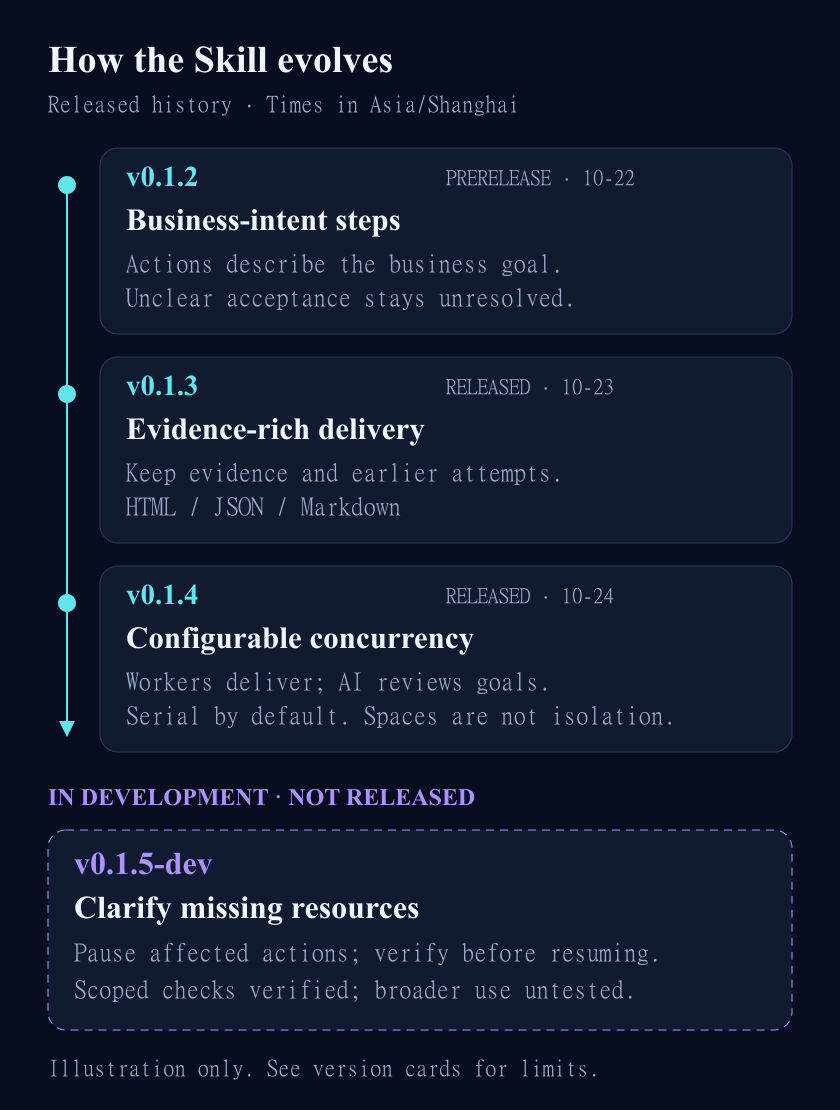
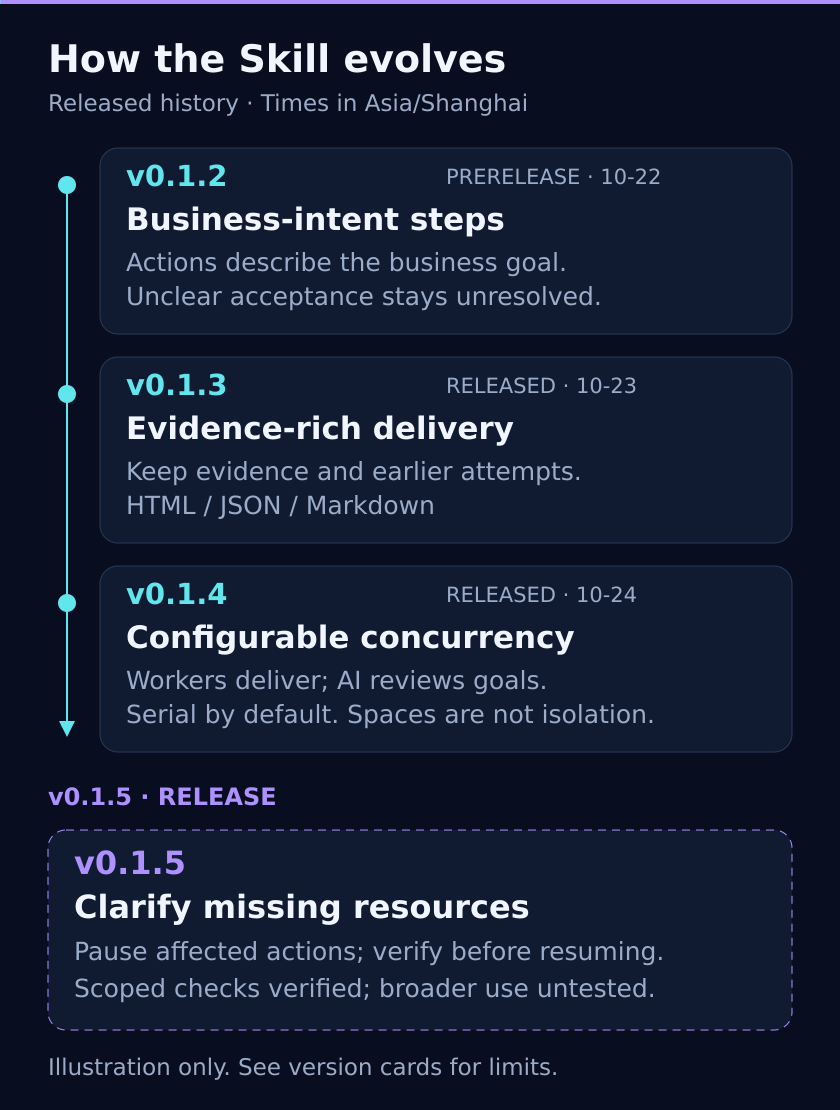
release(v0.1.5): finalize stable Skill identity and release documentation

diff --git a/README.en.md b/README.en.md
@@ -16,18 +16,18 @@ The repository/package/Skill identifier is **ai-autonomous-testing-ego-lite**. C
 
 ## Project status
 
-This Skill is under active development. Current source is **v0.1.5-dev, with scoped behavioral acceptance completed and no formal release yet**; the latest formal release is [v0.1.4](https://github.com/99Like-wjj/ai-autonomous-testing-ego-lite/releases/tag/v0.1.4). Feedback is welcome. Review AI conclusions against business rules and evidence, and do not use them as the sole basis for launch decisions. See [version history](docs/version-history.en.md), the [validation record](docs/testing.en.md) and [changelog](CHANGELOG.md).
+This Skill is under active development. Current version is **v0.1.5, with scoped behavioral acceptance completed**; the formal package and checksums are in [v0.1.5 Release](https://github.com/99Like-wjj/ai-autonomous-testing-ego-lite/releases/tag/v0.1.5). Feedback is welcome. Review AI conclusions against business rules and evidence, and do not use them as the sole basis for launch decisions. See [version history](docs/version-history.en.md), the [validation record](docs/testing.en.md) and [changelog](CHANGELOG.md).
 
 Maintained source uses strict TypeScript; installation packages contain compiled JavaScript and require no TypeScript compiler or development dependencies. Case concurrency is configurable and defaults to serial execution. The AI decides which cases are independent and uses native host subagents. Space association and deviation records are not a hard permission sandbox or a guarantee of account or backend-data isolation.
 
 
-## 0.1.5 development: clarify missing resources
+## 0.1.5: clarify missing resources
 
 The AI infers prerequisites from each goal, checks existing material and safely available facts within authorization, and asks about material gaps. It explains affected goals and how to supply what is missing, pauses dependent actions, and may continue independent authorized work. Supplied resources require verification before resuming, including new dependencies discovered during execution.
 
 Acceptance ambiguity, resource availability and permission to act stay separate. Existing tools retain observations, questions and history; no fixed resource checklist or business workflow is added. See the [resource guide (Chinese)](skills/ai-autonomous-testing-ego-lite/references/resource-readiness.md) and [local acceptance steps (Chinese)](docs/v0.1.5-local-acceptance.md). Guidance and engineering checks do not replace behavioral acceptance.
 
-![Version history separates released capabilities from v0.1.5 development; illustration only.](docs/images/version-history.png)
+![Version history presents released capabilities and v0.1.5 updates; illustration only.](docs/images/version-history.png)
 
 ## Parallel execution and delivery (since v0.1.4)
 
@@ -37,13 +37,13 @@ Unless the user explicitly requests another format, completed test execution del
 
 Build a complete standalone directory from the source repository with `npm run build:skill -- --output-dir ABS_NEW_EXTERNAL_SKILL_DIR`. The package contains the Skill, guides, scripts, schemas, synthetic examples and `runtime-manifest.json`. Copying only the source Skill instructions is incomplete. Before updating an existing installation, compare known source files and report unknown edits instead of overwriting them, creating duplicate installations or adding old-version backups.
 
-Use the absolute root of the actually loaded SKILL.md, then run `node ABS_TOOL_ROOT/scripts/ego.mjs tool-info --expect-version 0.1.5-dev --expect-revision branding-rename-1`. Check paths, formatVersions and installationIntegrity. Every CLI command verifies installed files. Source development runs npm ci and npm run build from the confirmed repository, then uses its explicit .build/runtime tool root. Fingerprints check consistency, not publisher identity. Validate this development package separately before deciding whether to replace an existing installation; no new resource JSON format is introduced.
+Use the absolute root of the actually loaded SKILL.md, then run `node ABS_TOOL_ROOT/scripts/ego.mjs tool-info --expect-version 0.1.5 --expect-revision branding-rename-1`. Check paths, formatVersions and installationIntegrity. Every CLI command verifies installed files. Source development runs npm ci and npm run build from the confirmed repository, then uses its explicit .build/runtime tool root. Fingerprints check consistency, not publisher identity. Validate this complete package separately before deciding whether to replace an existing installation; no new resource JSON format is introduced.
 
 `report` reads back all three outputs. `verify-report --run-dir ABS_RUN --report-dir ABS_REPORT_DIR` compares the files with current records, retained evidence and context sources. Receipts include paths, sizes, hashes and `browserOpen: not_checked`; actual browser opening is separate. Report access restrictions honestly without routing around them.
 
 To retain an existing report, prepare a new external directory and pass `report --output-dir ABS_EXISTING_NEW_DIR`. Post-execution assembly also passes `--context ABS_CONTEXT_JSON`, defined by [the context schema](schemas/report-context.schema.json). It records limitations, existing source files and hashes, supplemental case IDs and AI-supplied reviews for every goal. Original claims remain separate; no pre-execution freeze, screenshot, timestamp or execution step is invented. No business actions run to fill a report.
 
-This development version uses tool revision `branding-rename-1`. Cases/results/evidence remain v3; new manifests/reports are v4, execution/configuration/worker packets v1. Existing v3 runs remain usable without in-place migration; v2 remains unsupported. The installation requires Node.js >=22, not a TS compiler.
+This version uses tool revision `branding-rename-1`. Cases/results/evidence remain v3; new manifests/reports are v4, execution/configuration/worker packets v1. Existing v3 runs remain usable without in-place migration; v2 remains unsupported. The installation requires Node.js >=22, not a TS compiler.
 
 ## Cases and judgments
 

diff --git a/README.md b/README.md
@@ -16,18 +16,18 @@
 
 ## 项目现状
 
-本 Skill 仍在持续开发和完善中。当前源码为 **v0.1.5-dev 开发版，限定场景专项验收已完成，尚未正式发布**，最新正式发布为 [v0.1.4](https://github.com/99Like-wjj/ai-autonomous-testing-ego-lite/releases/tag/v0.1.4)。欢迎试用并反馈。AI 的测试结论仍需结合业务规则和证据复核，不应作为上线决策的唯一依据。详见[版本演变](docs/version-history.md)、[验证记录](docs/testing.md)与[更新说明](CHANGELOG.md)。
+本 Skill 仍在持续开发和完善中。当前版本为 **v0.1.5，限定场景专项验收已完成**，正式安装包与校验值见 [v0.1.5 Release](https://github.com/99Like-wjj/ai-autonomous-testing-ego-lite/releases/tag/v0.1.5)。欢迎试用并反馈。AI 的测试结论仍需结合业务规则和证据复核，不应作为上线决策的唯一依据。详见[版本演变](docs/version-history.md)、[验证记录](docs/testing.md)与[更新说明](CHANGELOG.md)。
 
 维护源码使用严格 TypeScript，安装包提供编译后的 JavaScript，无需安装 TypeScript 或开发依赖。支持用户配置用例并发，默认串行；AI 自主判断用例独立性并调用宿主原生子代理。Space 关联与偏差记录不是强权限沙箱，也不保证账号或后端数据隔离。
 
 
-## 0.1.5 开发版：资源不足时主动澄清
+## 0.1.5：资源不足时主动澄清
 
 AI 按测试目标推导所需身份、权限、环境、数据和观察条件，先查已有资料及授权内事实。仍有实质缺口时，说明缺什么、影响哪些目标和怎样补充；暂停依赖动作，独立且获授权的目标可以继续。用户补充后核实再恢复，执行中发现新依赖同样适用。
 
 验收规则不明确、资源不足、操作授权分别处理，复用现有记录和报告工具；不要求统一资源表或固定业务路线。参阅[资源指南](skills/ai-autonomous-testing-ego-lite/references/resource-readiness.md)和[本地验收步骤](docs/v0.1.5-local-acceptance.md)。指南和工程检查不能替代实际使用验收。
 
-![版本演变总览：已发布历史与 v0.1.5 开发版分开显示，图为能力示意。](docs/images/version-history.zh-CN.png)
+![版本演变总览：展示各版本能力与 v0.1.5 更新，图为能力示意。](docs/images/version-history.zh-CN.png)
 
 ## 并发与交付（自 v0.1.4）
 
@@ -42,7 +42,7 @@ $InstallPackage = Join-Path $env:TEMP ('ai-autonomous-testing-ego-lite-' + [guid
 npm ci
 npm run typecheck
 npm run build:skill -- --output-dir $InstallPackage
-node (Join-Path $InstallPackage 'scripts/ego.mjs') tool-info --expect-version 0.1.5-dev --expect-revision branding-rename-1
+node (Join-Path $InstallPackage 'scripts/ego.mjs') tool-info --expect-version 0.1.5 --expect-revision branding-rename-1
 ```
 
 经授权并按更名升级说明迁移到 Skill 根下的 `ai-autonomous-testing-ego-lite` 目录；不要继续装入旧名目录。更新前核对旧文件是否来自已知版本，出现不明修改先报告，不能覆盖用户文件、创建同名重复安装或自动增加旧版备份。运行时以**实际加载的 SKILL.md 所在目录**为工具根；源码开发先在已确认根目录构建，使用明确的 `.build/runtime` 工具根。`tool-info` 输出版本、revision、formatVersions、实际路径和编译产物指纹；安装清单缺失、文件修改或版本混用会拒绝执行。指纹不认证发布者，构建清单只包含指定分发资源，不打包真实运行目录。
@@ -51,7 +51,7 @@ node (Join-Path $InstallPackage 'scripts/ego.mjs') tool-info --expect-version 0.
 
 已有报告不得覆盖。准备一个新的仓库外目录，使用 `report --run-dir ABS_RUN --output-dir ABS_EXISTING_NEW_DIR` 另存；事后补报告再传 `--context ABS_CONTEXT_JSON`，格式见 [报告整理上下文](schemas/report-context.schema.json)。它明确整理性质、限制、现有来源与 hash、补充用例及 AI 逐目标复核，原记录结论保留单独展示，不冒充执行前冻结。工具不补造截图、采集时间、步骤或业务结论，也不为了补报告重跑业务。
 
-本开发版工具 revision 为 `branding-rename-1`。用例、结果与证据保留 v3；新 manifest/report 为 v4，执行台账、配置和交付包为 v1，executionRead 为 v2；没有新增资源 JSON 契约。既有 v3 run 可继续使用，不原地升级或删除；v2 仍不支持。安装包不需要 TypeScript 编译器。单例单 Space 是默认原则，偏差保留并由 AI 复核，必须保护用户原有 Space；这些规则和记录不构成宿主级强隔离保证。独立验收包先按本地验收说明使用，是否更新当前安装由用户决定。
+本版工具 revision 为 `branding-rename-1`。用例、结果与证据保留 v3；新 manifest/report 为 v4，执行台账、配置和交付包为 v1，executionRead 为 v2；没有新增资源 JSON 契约。既有 v3 run 可继续使用，不原地升级或删除；v2 仍不支持。安装包不需要 TypeScript 编译器。单例单 Space 是默认原则，偏差保留并由 AI 复核，必须保护用户原有 Space；这些规则和记录不构成宿主级强隔离保证。独立验收包先按本地验收说明使用，是否更新当前安装由用户决定。
 
 ## 用例与判断
 

diff --git a/CHANGELOG.md b/CHANGELOG.md
@@ -1,7 +1,8 @@
 # 更新记录 / Changelog
 
-## 0.1.5-dev — 2026-10-25 · 开发中，限定场景专项验收完成
+## 0.1.5 — 2026-10-25 · 资源主动澄清与完整更名
 
+- 正式收尾：package、工具常量、Skill 元数据、调用校验与完整安装包统一为 0.1.5，不带 dev 后缀；Codex 展示/调用配置随包分发。历史开发验证记录保留原版本，版本收尾不扩大其验收范围。
 - 更名修订 branding-rename-1：仓库、package 与 Skill 标识统一为 ai-autonomous-testing-ego-lite，新增随完整包校验的 Codex 展示/调用元数据，更新当前链接与迁移说明。README 中文标题“基于 Ego Lite 的 AI 自主测试 Skill”不变；历史版本、报告与数据格式不动，用户安装不自动修改。
 - 修订 resource-clarification-3：同一资源事实复用可追溯依据，派生摘要回读该来源并区分历史与当前；已提供但未核验不再写成未提供。复用现有证据、结果和报告，不增加资源状态机或业务判断代码。
 - 修订 resource-clarification-2：明确记录缺口不等于实际发问、部分答复只解决所覆盖条件，以及受阻原目标交付前的问答核对。资源指南优先讲行为，字段映射后置；保持 AI 自主判断。
@@ -9,10 +10,10 @@
 - 分开处理验收歧义、资源可用性和操作授权。clarificationQuestions 既有含义与 pass/fail 限制保留；资源恢复符合原条件时不因此重新冻结，改变冻结语义仍须修订并保留历史。
 - 复用现有结果、证据、worker 包和报告；不新增资源 JSON、固定决策树、自动重试或独立模型服务。新增指南明确加入运行包与安装清单，辅助资源笔记不冒称已被 verify-report 校验。
 - 新增面向使用者的双语版本演变页、总览图、README 入口及本地验收步骤；区分正式/预发布/开发中和实际发布时间，历史开发记录保留。
-- 升级影响：软件 0.1.5-dev，toolRevision 为 branding-rename-1（资源澄清行为沿用 resource-clarification-3）；cases/results/evidence v3、manifest/report v4、execution/configuration/workerPacket v1、executionRead v2 保持。需完整包以包含新指南；不迁移、删除或覆盖历史。
-- 本版工程验证与限制见 [v0.1.5 本地验证记录](docs/v0.1.5-validation.md)。真实对话与业务验收分别记录，不由类型或合成测试代替。旧开发包已按用户授权更新至用户级安装；本次候选安装及逐次验证以回执为准，未合并 main 或发布。
+- 升级影响：软件 0.1.5，toolRevision 为 branding-rename-1（资源澄清行为沿用 resource-clarification-3）；cases/results/evidence v3、manifest/report v4、execution/configuration/workerPacket v1、executionRead v2 保持。需完整包以包含新指南；不迁移、删除或覆盖历史。
+- 本版工程验证与限制见 [v0.1.5 本地验证记录](docs/v0.1.5-validation.md)。真实对话与业务验收分别记录，不由类型或合成测试代替。旧开发包已按用户授权更新至用户级安装；历史候选安装及逐次验证以回执为准；它们不代表用户电脑已更新到本次正式安装包。
 
-English: Goal-specific resource clarification, dependency-scoped pauses and verified resumption are guided by the AI using existing records and report tools. Added bilingual version history and acceptance instructions. Development build, unchanged JSON contracts; scoped behavioral acceptance is recorded; broader reliability remains unverified.
+English: Goal-specific resource clarification, dependency-scoped pauses and verified resumption are guided by the AI using existing records and report tools. Added bilingual version history and acceptance instructions. Formal version 0.1.5 with unchanged JSON contracts; scoped behavioral acceptance is recorded; broader reliability remains unverified.
 
 ## 0.1.4 — 2026-10-24 · TypeScript 与可配置并发
 

diff --git a/docs/rename-upgrade.md b/docs/rename-upgrade.md
@@ -1,6 +1,6 @@
 # v0.1.5 名称变更与升级 / Naming and upgrade
 
-此变更属于 **0.1.5-dev / branding-rename-1**，不代表正式发布或新增业务验收。资源澄清能力沿用 resource-clarification-3；数据格式、Ego 命令/API 与官方 ego-browser Skill 不变。
+此变更属于 **0.1.5 / branding-rename-1**，正式包中的软件与 Skill 版本统一为 0.1.5；版本号收尾不增加业务验收范围。资源澄清能力沿用 resource-clarification-3；数据格式、Ego 命令/API 与官方 ego-browser Skill 不变。
 
 ## 名称对应
 
@@ -29,7 +29,7 @@ git status --short --branch
 ## 安装与发现
 
 1. 从当前源码构建完整的仓库外目录包，目录名使用 ai-autonomous-testing-ego-lite。不能只复制源码 Skill 说明子目录。包必须包含 agents/openai.yaml、references、scripts、schemas、运行依赖资源与 runtime-manifest.json。
-2. 在独立包运行 `node ABS_PACKAGE/scripts/ego.mjs tool-info --expect-version 0.1.5-dev --expect-revision branding-rename-1`，确认 name 为 ai-autonomous-testing-ego-lite、installationIntegrity 为 verified，并检查实际路径。
+2. 在独立包运行 `node ABS_PACKAGE/scripts/ego.mjs tool-info --expect-version 0.1.5 --expect-revision branding-rename-1`，确认 name 为 ai-autonomous-testing-ego-lite、installationIntegrity 为 verified，并检查实际路径。
 3. 更新用户安装须单独获得授权。先检查实际使用的 Skill 搜索路径（包括项目级和用户级）以及旧 ego-lite-test 与新目录是否存在，比较已知文件哈希，保护不明修改、报告和证据。新目录已存在时先比对，不直接覆盖。
 4. 迁移已确认的旧安装到同一 Skill 根下的新目录，并更新为完整新包；校验新入口后再完成旧入口退役。不要长期留下两个可被发现的同功能入口，不自动创建旧版备份或删除不明内容。无法安全完成时保留现状并报告，不静默加载旧版。
 5. 在新的 Codex 会话检查展示名及 `$ai-autonomous-testing-ego-lite`，再从实际加载的 SKILL.md 目录运行 tool-info。旧调用名不作为兼容别名保留；官方 `$ego-browser` 仍按既有方式使用。
@@ -38,4 +38,4 @@ git status --short --branch
 
 ## English summary
 
-The repository, package and Skill identifier are now **ai-autonomous-testing-ego-lite**. Invoke `$ai-autonomous-testing-ego-lite`; Codex displays **AI 自主自动化测试 · Ego Lite**. The Chinese README heading stays unchanged. Update the remote in the existing checkout; do not clone a second local version or reset local work. Build and verify the full standalone package, including agents/openai.yaml. User-level installation migration requires separate authorization and checks for unknown changes and duplicate discoverable entries. Historical releases, reports, hashes, JSON formats and the official Ego API/Skill remain unchanged. This development rename is not a release or a new live-business acceptance result.
+The repository, package and Skill identifier are now **ai-autonomous-testing-ego-lite**. Invoke `$ai-autonomous-testing-ego-lite`; Codex displays **AI 自主自动化测试 · Ego Lite**. The Chinese README heading stays unchanged. Update the remote in the existing checkout; do not clone a second local version or reset local work. Build and verify the full standalone package, including agents/openai.yaml. User-level installation migration requires separate authorization and checks for unknown changes and duplicate discoverable entries. Historical releases, reports, hashes, JSON formats and the official Ego API/Skill remain unchanged. The formal package reports version 0.1.5, without a dev suffix; the naming and version update does not add live-business acceptance evidence.

diff --git a/docs/version-history.en.md b/docs/version-history.en.md
@@ -4,19 +4,19 @@
 
 The AI interprets goals and judges business outcomes, Ego operates the browser, and local tools retain evidence and deliver reports.
 
-![Evolution: v0.1.2 business steps and acceptance questions; v0.1.3 evidence-rich delivery; v0.1.4 configurable concurrency; v0.1.5 development guidance for resource clarification. Illustration, not execution evidence.](images/version-history.png)
+![Evolution: v0.1.2 business steps and acceptance questions; v0.1.3 evidence-rich delivery; v0.1.4 configurable concurrency; v0.1.5 guidance for resource clarification. Illustration, not execution evidence.](images/version-history.png)
 
-## In development: v0.1.5-dev
+## v0.1.5 · Resource clarification
 
-**Not formally released; scoped behavioral acceptance has been completed.** The source adds resource-readiness guidance, discoverable from the Skill entrypoint. The AI infers prerequisites from each goal, checks available facts within authorization, asks about material gaps, pauses dependent actions and may continue independent authorized work. Supplied resources require verification before resuming; new dependencies can emerge during execution.
+**Formal version: 2026-10-25.** [Release, package and checksums](https://github.com/99Like-wjj/ai-autonomous-testing-ego-lite/releases/tag/v0.1.5). Scoped behavioral acceptance has been completed. The source adds resource-readiness guidance, discoverable from the Skill entrypoint. The AI infers prerequisites from each goal, checks available facts within authorization, asks about material gaps, pauses dependent actions and may continue independent authorized work. Supplied resources require verification before resuming; new dependencies can emerge during execution.
 
 Acceptance ambiguity, resource availability and permission to act remain separate. Existing evidence, result and worker-packet tools are reused; no new resource JSON contract or fixed business workflow is introduced. Cases/results/evidence v3 and manifest/report v4 remain unchanged. This page and bilingual overview images explain the history.
 
-The AI still judges sufficiency, questions and recovery. Auxiliary notes are not automatically covered by report verification. Engineering checks do not prove reliable behavior in real projects. Use a complete Node.js 22+ package for separate acceptance; installation replacement, merging and publishing require their respective authorization.
+The AI still judges sufficiency, questions and recovery. Auxiliary notes are not automatically covered by report verification. Engineering checks do not prove reliable behavior in real projects. The complete Node.js 22+ package and Codex Skill metadata report 0.1.5 without a dev suffix. Repository/Skill identifiers are ai-autonomous-testing-ego-lite; see the [rename guide](rename-upgrade.md) before an authorized installation migration. Formal release does not imply every scenario is verified.
 
 ## Released versions
 
-Times below are GitHub published_at converted to Asia/Shanghai. Development dates in the historical changelog retain their original meaning.
+Earlier release times below are GitHub published_at converted to Asia/Shanghai; use the v0.1.5 Release for its exact publication time. Development dates in the historical changelog retain their original meaning.
 
 ### v0.1.4 · Configurable concurrency
 

diff --git a/docs/version-history.md b/docs/version-history.md
@@ -4,11 +4,11 @@
 
 基于 Ego Lite 的 AI 自主测试 Skill：AI 理解目标、选择方法并判断业务，Ego 操作浏览器，本地工具保存证据和交付报告。
 
-![版本演变：v0.1.2 业务步骤与验收澄清；v0.1.3 图文证据交付；v0.1.4 可配置并发；v0.1.5 开发版补强资源主动澄清。图为能力示意，非测试截图。](images/version-history.zh-CN.png)
+![版本演变：v0.1.2 业务步骤与验收澄清；v0.1.3 图文证据交付；v0.1.4 可配置并发；v0.1.5 补强资源主动澄清。图为能力示意，非测试截图。](images/version-history.zh-CN.png)
 
-## 开发中：v0.1.5-dev · 资源不足时主动澄清
+## v0.1.5 · 资源不足时主动澄清
 
-**尚未正式发布，已完成限定场景专项验收。** 当前源码包含以下规范与文档；专项结果不代表所有模型和业务场景均已验证。
+**正式版本：2026-10-25。** [Release、安装包与校验值](https://github.com/99Like-wjj/ai-autonomous-testing-ego-lite/releases/tag/v0.1.5)。已完成限定场景专项验收。 当前源码包含以下规范与文档；专项结果不代表所有模型和业务场景均已验证。
 
 - **解决的问题：** 测试目标需要的身份、权限、项目、数据或观察条件不足时，AI 可能继续执行，却没有主动说明缺口。
 - **变化：** Skill 入口明确加载资源指南，按目标判断前提，先在授权内核验；无法自行确认的实质缺口主动询问，只暂停依赖动作。用户补充后核实，再决定恢复；执行中有新依赖也适用。
@@ -17,11 +17,11 @@
 - **本版同时新增：** 本演变页、README 入口和双语版本总览图。
 - **限制：** 是否资源充分、提问内容及恢复仍由 AI 判断；辅助笔记不自动受报告校验。工程回归不能替代真实使用验收。
 
-需要 Node.js 22+，更新时使用完整包并核对实际加载版本。本开发包先独立验收，不覆盖不明安装修改或历史资产；正式安装、合并和发布分别遵从用户授权。
+需要 Node.js 22+，更新时使用完整包并核对实际加载版本。完整安装包版本与 Codex Skill 元数据统一为 0.1.5，不带 dev；仓库和 Skill 更名为 ai-autonomous-testing-ego-lite。升级先核对不明安装修改与历史资产，参阅[更名与升级说明](rename-upgrade.md)。正式版本不等于所有场景已验证。
 
 ## 已发布
 
-发布时间均来自各 Release 的 published_at，以下统一为北京时间。CHANGELOG 内开发/归档日期保持其原含义。
+以下较早版本的发布时间来自各 Release 的 published_at，统一为北京时间；v0.1.5 的精确发布时间以 Release 为准。CHANGELOG 内开发/归档日期保持其原含义。
 
 ### v0.1.4 · 可配置并发与协调复核
 

diff --git a/docs/asset-formats.md b/docs/asset-formats.md
@@ -1,13 +1,13 @@
 # 本地资产格式与运行约定（v3 业务核心、v4 执行）
 
-## v0.1.5-dev 当前格式总览
+## v0.1.5 当前格式总览
 
-本开发版没有新增资源 JSON 契约。资源缺口复用 observed/rationale/remainingQuestions 和显式目标评估/证据，clarificationQuestions 继续只表示验收待澄清。pendingClarification 不统计全部资源缺口；辅助笔记未集成时不属于 verify-report 的核验输入。
+本版没有新增资源 JSON 契约。资源缺口复用 observed/rationale/remainingQuestions 和显式目标评估/证据，clarificationQuestions 继续只表示验收待澄清。pendingClarification 不统计全部资源缺口；辅助笔记未集成时不属于 verify-report 的核验输入。
 
 用例、结果、证据继续使用 v3；新运行 manifest 与报告使用 v4；执行台账、配置、worker 交付包使用 v1；查询视图使用 v2。既有 v3 运行保留原格式且可继续核验；下方 v0.1.3 段落是基础记录语义的历史背景，不表示新运行仍是 v3。并发字段与命令详见本文后部的 v0.1.4 章节。
 
 
-当前 `0.1.5-dev`（沿用 v0.1.4 契约）：cases/baseline/results/evidence 仍为 v3；新 manifest/report 为 v4；配置、执行台账、worker 交付包为 v1。`schemas/manifest.schema.json`、`report.schema.json` 显式区分 v3/v4。以下 v3 字段语义继续适用，不代表所有新运行仍为 v3。并行调用见工具根的 `references/parallel-testing.md`，源码位于 `skills/ai-autonomous-testing-ego-lite/references/parallel-testing.md`。
+当前 `0.1.5`（沿用 v0.1.4 契约）：cases/baseline/results/evidence 仍为 v3；新 manifest/report 为 v4；配置、执行台账、worker 交付包为 v1。`schemas/manifest.schema.json`、`report.schema.json` 显式区分 v3/v4。以下 v3 字段语义继续适用，不代表所有新运行仍为 v3。并行调用见工具根的 `references/parallel-testing.md`，源码位于 `skills/ai-autonomous-testing-ego-lite/references/parallel-testing.md`。
 
 `execution read` 默认返回 `schemas/execution-read.schema.json` 定义的摘要视图（`viewVersion:2`），支持单分派视图及显式 `--view full` 原完整输出；内部 `readExecutionView` 完整读取接口保持不变。摘要不写入 run，也不改变上述存档格式。摘要／单例默认只校验元数据，integrity 对象明示结果与证据未复核；加 `--integrity full` 可完整检查后仍返回紧凑内容，完整视图始终严格检查。轻量查询发现恢复标记只提示，不自动恢复。新报告使用“尚无结果／尝试记录”“已有尝试记录，尚无最终结论”，不从入账情况推断实际是否执行；下文 v0.1.3 展示说明保留其历史语义。
 

diff --git a/docs/asset-formats.en.md b/docs/asset-formats.en.md
@@ -1,13 +1,13 @@
 # Asset formats (v3 business data, v4 execution)
 
-## Current v0.1.5-dev format overview
+## Current v0.1.5 format overview
 
 No resource JSON contract is added. Existing observed/rationale/remainingQuestions and explicit goal assessments/evidence retain resource gaps. clarificationQuestions still means unresolved acceptance; pendingClarification does not count all resource gaps. Unintegrated auxiliary notes are outside verify-report inputs.
 
 Cases, results and evidence remain v3; new run manifests and reports use v4; execution ledgers, configuration and worker packets use v1; query views use v2. Existing v3 runs retain their format and remain verifiable. The v0.1.3 sections below explain historical base record semantics, not the format of new runs. See the v0.1.4 section later in this guide for parallel commands and fields.
 
 
-Current 0.1.5-dev keeps the v0.1.4 contracts and retains v3 cases/baseline/results/evidence, uses v4 for new manifests/reports and v1 for configuration/execution/worker packets. Root schemas dispatch v3/v4 explicitly. The v3 field semantics below remain valid. Parallel calls are documented with the installed Skill references.
+Current 0.1.5 keeps the v0.1.4 contracts and retains v3 cases/baseline/results/evidence, uses v4 for new manifests/reports and v1 for configuration/execution/worker packets. Root schemas dispatch v3/v4 explicitly. The v3 field semantics below remain valid. Parallel calls are documented with the installed Skill references.
 
 `execution read` now defaults to the viewVersion 2 response in execution-read.schema.json; use `--view assignment --assignment-id ID` for one assignment or `--view full` for the previous complete structure. The internal readExecutionView API remains complete. Views do not change stored run formats. Summary/assignment default to metadata validation, with explicit not_checked result/evidence fields and recovery-marker visibility. Use --integrity full for a strictly checked compact response; the full view always remains strict. Metadata queries do not recover transactions. New report wording distinguishes missing recorded observations from actual execution state; historical v0.1.3 descriptions below retain their context.
 

diff --git a/skills/ai-autonomous-testing-ego-lite/SKILL.md b/skills/ai-autonomous-testing-ego-lite/SKILL.md
@@ -2,7 +2,7 @@
 name: ai-autonomous-testing-ego-lite
 description: AI 自主 Web 自动化测试：由当前 AI 会话自主分析、规划与验证，通过已安装的 Ego Lite / Ego Browser 执行，接收外部用例或按需求生成带业务步骤的标准用例，执行证据驱动的黑盒 Web 测试，区分产品异常、执行失败和证据不足。适用于新需求/新功能自动化测试、已有用例核验、角色权限与业务流程测试；不是固定流程自动化器或 Agent 能力评测框架。
 metadata:
-  version: "0.1.5-dev"
+  version: "0.1.5"
   tool-revision: "branding-rename-1"
 ---
 
@@ -22,7 +22,7 @@ metadata:
 
 完整安装包包含入口、references、scripts、schemas 和格式指南。**除非用户明确指定其他格式，执行测试后的默认交付必须包含可独立打开的 HTML、结构化 JSON 和 Markdown。** 聊天摘要不能替代文件交付。工具暂不可用时仍可保存事实，但须明确报告交付阻塞，不能静默退回 Markdown 并宣称完成。
 
-开始记录前读 [本地工具箱调用指南](references/local-toolbox.md)：以本次实际加载的安装／构建包 `SKILL.md` 所在绝对目录为工具根，运行 `scripts/ego.mjs tool-info`，核对路径、`0.1.5-dev`、`branding-rename-1`、`formatVersions` 与安装文件校验结果。源码开发先在明确的唯一仓库构建，使用其 `.build/runtime` 或本次指定的独立编译包；不要将源码 Skill 子目录当作安装根，不向上猜目录、选择旧安装或覆盖用户安装。先确认报告资源可用；这不规定业务执行路线。
+开始记录前读 [本地工具箱调用指南](references/local-toolbox.md)：以本次实际加载的安装／构建包 `SKILL.md` 所在绝对目录为工具根，运行 `scripts/ego.mjs tool-info`，核对路径、`0.1.5`、`branding-rename-1`、`formatVersions` 与安装文件校验结果。源码开发先在明确的唯一仓库构建，使用其 `.build/runtime` 或本次指定的独立编译包；不要将源码 Skill 子目录当作安装根，不向上猜目录、选择旧安装或覆盖用户安装。先确认报告资源可用；这不规定业务执行路线。
 
 ## 两种用例来源
 

diff --git a/skills/ai-autonomous-testing-ego-lite/references/local-toolbox.en.md b/skills/ai-autonomous-testing-ego-lite/references/local-toolbox.en.md
@@ -1,4 +1,4 @@
-# Local toolbox calling guide (0.1.5-dev)
+# Local toolbox calling guide (0.1.5)
 
 In `0.1.4`, `execution read` defaults to a bounded summary. Use `--view assignment --assignment-id ID` for one assignment, or `--view full` for the previous complete structure. Summary/assignment default to metadata checks and explicitly mark historical evidence as not_checked. Add --integrity full for a strictly checked compact view; the full view always retains strict checks. A confirmed write receipt supplies the next expectedRevision; an intervening query is optional. Report labels describe recorded observations, separately from execution state and business outcomes. See [parallel-testing](parallel-testing.md).
 
@@ -8,7 +8,7 @@ The helper performs local data transactions and rendering. Unless the user expli
 
 Use the absolute directory containing the actually loaded `SKILL.md` as the installed tool root. A complete installation includes scripts, schemas, docs, examples, and `runtime-manifest.json`. For source development run npm ci and npm run build at the confirmed root, then use .build/runtime; never infer it by walking up from an installed Skill or choosing a similarly named preview directory.
 
-Run `node ABS_TOOL_ROOT/scripts/ego.mjs tool-info --expect-version 0.1.5-dev --expect-revision branding-rename-1`. Check toolRoot, skillFile, formatVersions and installationIntegrity: verified for both built runtimes and installations. Every CLI command also checks the installed manifest. Report unknown edits rather than overwriting them. Read `docs/asset-formats.en.md` and schemas inside that verified root. A fingerprint proves byte consistency, not publisher identity.
+Run `node ABS_TOOL_ROOT/scripts/ego.mjs tool-info --expect-version 0.1.5 --expect-revision branding-rename-1`. Check toolRoot, skillFile, formatVersions and installationIntegrity: verified for both built runtimes and installations. Every CLI command also checks the installed manifest. Report unknown edits rather than overwriting them. Read `docs/asset-formats.en.md` and schemas inside that verified root. A fingerprint proves byte consistency, not publisher identity.
 
 ## Boundaries
 

diff --git a/skills/ai-autonomous-testing-ego-lite/references/local-toolbox.md b/skills/ai-autonomous-testing-ego-lite/references/local-toolbox.md
@@ -1,4 +1,4 @@
-# 本地工具箱调用指南（v0.1.5-dev）
+# 本地工具箱调用指南（v0.1.5）
 
 `execution read` 默认只给摘要；单分派用 `--view assignment --assignment-id ID`，需要完整结构时显式 `--view full`。默认摘要／单例只检查元数据并明示历史证据未复核；`--integrity full` 可完整检查后仍返回摘要，完整视图始终严格检查，详见[并发指南](parallel-testing.md)。报告“尚无结果／尝试记录”只描述入账情况，不能由此断言用例未执行；执行状态和业务结论分别查看。
 
@@ -11,7 +11,7 @@
 ```powershell
 $ToolRoot = 'ABS_ACTUALLY_LOADED_SKILL_ROOT'
 $Tool = Join-Path $ToolRoot 'scripts/ego.mjs'
-node $Tool tool-info --expect-version 0.1.5-dev --expect-revision branding-rename-1
+node $Tool tool-info --expect-version 0.1.5 --expect-revision branding-rename-1
 ```
 
 核对 toolRoot、skillFile、版本、revision 与 `formatVersions`（cases/results/evidence 为 3，manifest/report 为 4，execution/configuration/workerPacket 为 1）。构建包与独立安装均须 `installationIntegrity: verified`。指纹对应实际交付的编译 JS 与资源，不认证发布者。每次 CLI 也检查安装清单，缺失、混用或改动先报告，不覆盖不明用户修改。读取此根目录的格式指南和所需 Schema，命令始终指向同一绝对脚本路径。
